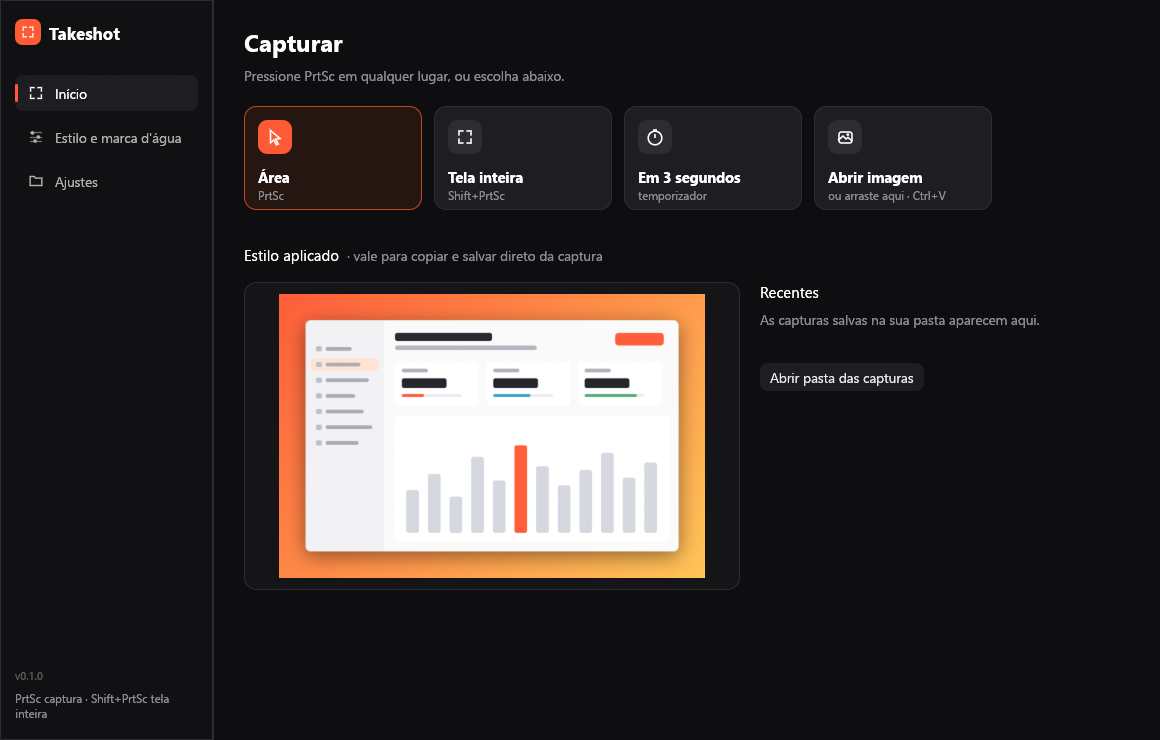
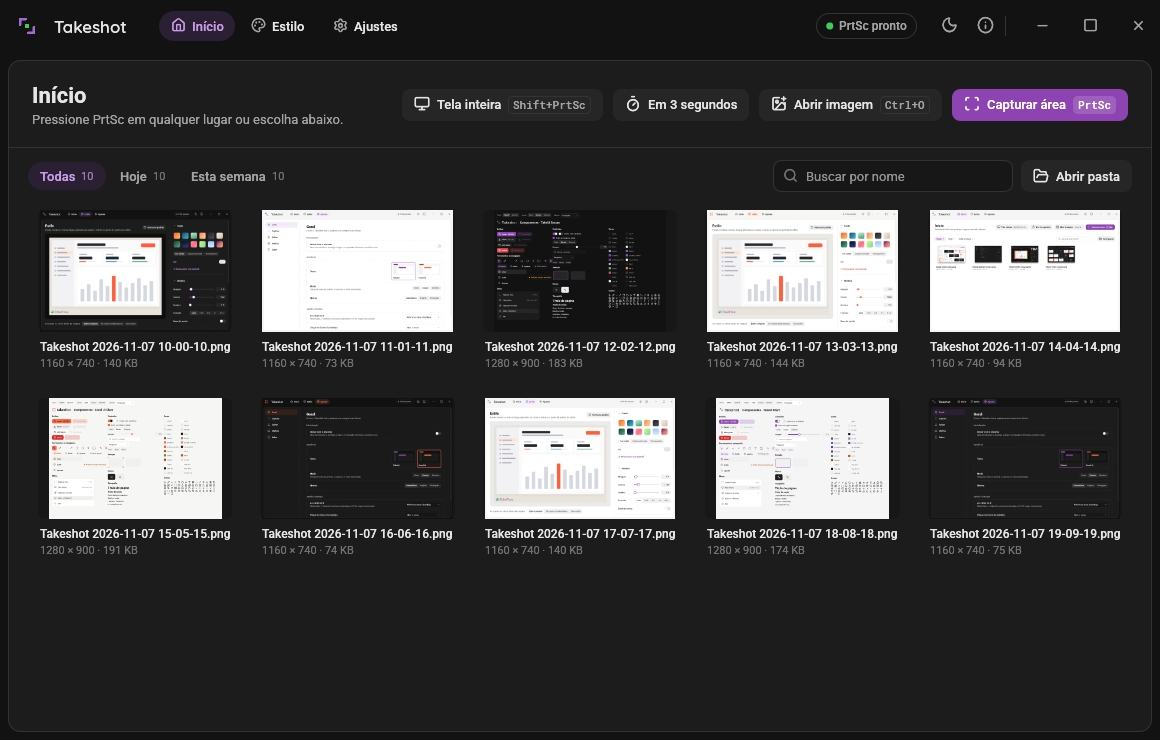
docs: TakeUI main window, screens references and the 5b plan row
- design/screens: the four TakeUI main window frames exported from the
  .fig (Inicio dark and light, Estilo and Ajustes dark).
- The screenshots of the interface before the redesign leave the repo:
  docs/editor.png and docs/capture.png are deleted, and PRODUCT.md keeps
  the old look as the anti-reference without pictures.
- docs/home.png: the new Inicio (TakeUI, Portuguese, a sample folder),
  now the README's opening picture; editor and capture pictures come
  with their redesign.
- README: the main window (Inicio, Estilo, Ajustes) and the appearance
  choices.
- AGENTS.md: ui::chrome, the skins returning MainAction for screens/ to
  carry out, Coral UI colouring TakeUI's layout for now, the design
  references and measures, --captures-dir and sample folders.
- scripts/screenshots.sh renders the three pages too, with design/screens
  as the gallery's captures.

diff --git a/AGENTS.md b/AGENTS.md
@@ -15,9 +15,9 @@ The redesign that introduces the two themes is in progress on `feat/redesign`. U
 | `src/main.rs` | entry point: arguments, shared state, window modes |
 | `src/engine/` | drawing engine: annotations, objects, pointer policy, rendering, background presets |
 | `src/system/` | operating system and data: screen capture and monitor work areas, clipboard and files, fonts, settings, and the resident's parts (`resident`, `tray`, `hotkeys`, `prtsc_hook`, `instance`, `autostart`, `recents`, `borderless`) |
-| `src/ui/` | design system: `assets` (embedded fonts and the icon font), `tokens` (colours per theme and mode), `i18n` (strings), `icon` (Lucide), `style` (egui visuals), `kit` (components), `brand` (icons and mark), `gallery` (all of it on one screen) |
-| `src/screens/` | current windows, plus the resident's `shell` (main window, tray menu, About and close dialogs); the skins replace them screen by screen |
-| `src/skins/` | how each theme draws: `takeui/` (and `coral/` from plan 6) draw the screens from their state and return what the user asked for; `begin_frame` applies the look when it changes |
+| `src/ui/` | design system: `assets` (embedded fonts and the icon font), `tokens` (colours per theme and mode), `i18n` (strings), `icon` (Lucide), `style` (egui visuals), `kit` (components), `brand` (icons and mark), `chrome` (the theme's title bar: drag, double click, resize edges, window buttons, the native fallback), `gallery` (all of it on one screen) |
+| `src/screens/` | window state and behaviour shared by both themes (`home` holds the main window's state and carries out its `MainAction`s), the windows not yet skinned, and the resident's `shell` (main window, tray menu, About and close dialogs) |
+| `src/skins/` | how each theme draws: `takeui/` (and `coral/` from plan 6) draw the screens from their state and return what the user asked for as `MainAction`s, which `screens/` carries out; `begin_frame` applies the look when it changes. Until Coral UI has its own pages, choosing it colours TakeUI's layout |
 | `assets/` | embedded fonts with their licenses, and the brand SVG masters with the PNG, ICO and ICNS files generated from them |
 
 Every `.rs` file starts with a `//!` doc comment (after any crate attributes) stating its responsibility; read those lines to find your way, and give every new file one. Behavior lives in `engine/` and `system/` so both skins share it.
@@ -52,7 +52,7 @@ Editor and capture share one behaviour, so both skins get it for free:
 1. `cargo fmt --check` prints nothing.
 2. `cargo clippy --all-targets -- -D warnings` finishes with zero warnings, pre-existing ones included.
 3. `mkdir -p shots` once (the folder is git-ignored), then `cargo test > shots/test.log 2>&1` and read the log. Send test output to a file and run one test command at a time: a pipe holds a hung run open.
-4. For visible changes, render the screens and compare them with the design file. `--screenshot out.png` saves the window after ~120 frames and works with every window: `takeshot --screenshot out.png` (main window), `takeshot --edit --screenshot out.png` (editor with a sample picture), `takeshot --capture --screenshot out.png` (capture overlay on a sample). `takeshot` alone starts the resident (close a running one first); debug builds are console programs, so a script that launches one must redirect its output or the new console window takes the focus. `--lang en|pt|auto`, `--theme takeui|coral` and `--mode light|dark|system` override the saved look for this run in every window drawn from the tokens; `--page inicio|estilo|ajustes` opens the main window on that page and `--page componentes` the component gallery. None of them touches the saved settings. `scripts/screenshots.sh` renders the gallery in Portuguese in all four theme/mode combinations into `shots/` (build with `cargo build --release` first).
+4. For visible changes, render the screens and compare them with the design file: `design/screens/` holds the TakeUI references exported from the `.fig`, and the exact measures (sizes, padding, gaps, font sizes) are on the `.fig`'s nodes, read through OpenPencil. `--screenshot out.png` saves the window after ~120 frames and works with every window: `takeshot --screenshot out.png` (main window), `takeshot --edit --screenshot out.png` (editor with a sample picture), `takeshot --capture --screenshot out.png` (capture overlay on a sample). `takeshot` alone starts the resident (close a running one first); debug builds are console programs, so a script that launches one must redirect its output or the new console window takes the focus. `--lang en|pt|auto`, `--theme takeui|coral` and `--mode light|dark|system` override the saved look for this run in every window drawn from the tokens; `--page inicio|estilo|ajustes` opens the main window on that page and `--page componentes` the component gallery; `--captures-dir <folder>` shows another folder in Início. None of them touches the saved settings. Screenshots for the repo or a PR use a sample folder, never the user's own captures. `scripts/screenshots.sh` renders the gallery and the three pages in Portuguese in all four theme/mode combinations into `shots/`, with `design/screens` as Início's captures (build with `cargo build --release` first).
 5. Before a push, `scripts/check.sh` runs what CI runs: fmt, clippy and tests here, then the same on Linux in a container (`scripts/ci-linux`, needs Docker) plus clippy for macOS, on the commit being pushed. Code behind `#[cfg(...)]` for another system compiles only there, so steps 1 to 3 on Windows miss it. The pre-push hook runs it once a clone has `git config core.hooksPath .githooks`.
 
 ## Tools

diff --git a/README.md b/README.md
@@ -2,7 +2,7 @@
 
 Ferramenta de captura de tela para Windows, macOS e Linux: captura instantânea com anotação e um editor para fundos, cantos arredondados, sombra e marca d'água.
 
-![Editor](docs/editor.png)
+![Início](docs/home.png)
 
 ## O que faz
 
@@ -38,6 +38,12 @@ Ferramenta de captura de tela para Windows, macOS e Linux: captura instantânea 
 **Extras**
 - Fixar uma captura por cima das outras janelas (arrastar move, roda do mouse dá zoom, duplo clique fecha).
 - Arrastar uma imagem para a janela principal ou colar com `Ctrl+V` abre no editor.
+
+**Janela principal**
+- Início: as capturas da pasta em grade, com filtros (Todas, Hoje, Esta semana) e busca por nome. Passar o mouse num card mostra copiar, editar, mostrar na pasta e mandar para a lixeira; duplo clique abre no editor; o botão direito traz o mesmo menu.
+- Estilo: prévia ao vivo do fundo, da moldura e da marca d'água que vão em cada cópia, com o que acontece ao copiar ou salvar direto da captura.
+- Ajustes: inicialização, aparência, janela e bandeja, captura, pasta de salvar, atalhos (com "Alterar" para gravar teclas novas) e sobre.
+- Aparência: dois temas, TakeUI e Coral UI, em claro, escuro ou seguindo o sistema, trocados na hora em Ajustes > Geral > Aparência, assim como o idioma (Automático, English, Português). A lua e o sol na barra de título alternam entre claro e escuro.
 
 **Bandeja**
 - O Takeshot fica na área de notificação: os atalhos funcionam com a janela fechada. Abrir o programa de novo só traz a janela que já está rodando.

diff --git a/PRODUCT.md b/PRODUCT.md
@@ -44,7 +44,7 @@ Instant capture with in-place annotation combined with a presentation editor (ba
 
 ## Evidence on Hand
 
-- Current UI screenshots: `docs/home.png`, `docs/editor.png`, `docs/capture.png` (anti-reference for the look; the flow is kept).
+- The interface before the redesign is the anti-reference for the look (the flow is kept); its screenshots are not kept in the repo. The redesigned screens are in `design/screens/` (exported from the `.fig`) and `docs/home.png`.
 - TakeFlow logo: `D:\Joseph\Desktop\DEV\takeflow\frontend\public\logo-takeflow.png`.
 - No Takeshot logo exists yet; no testimonials, user counts or benchmarks exist and none may be invented.
 
